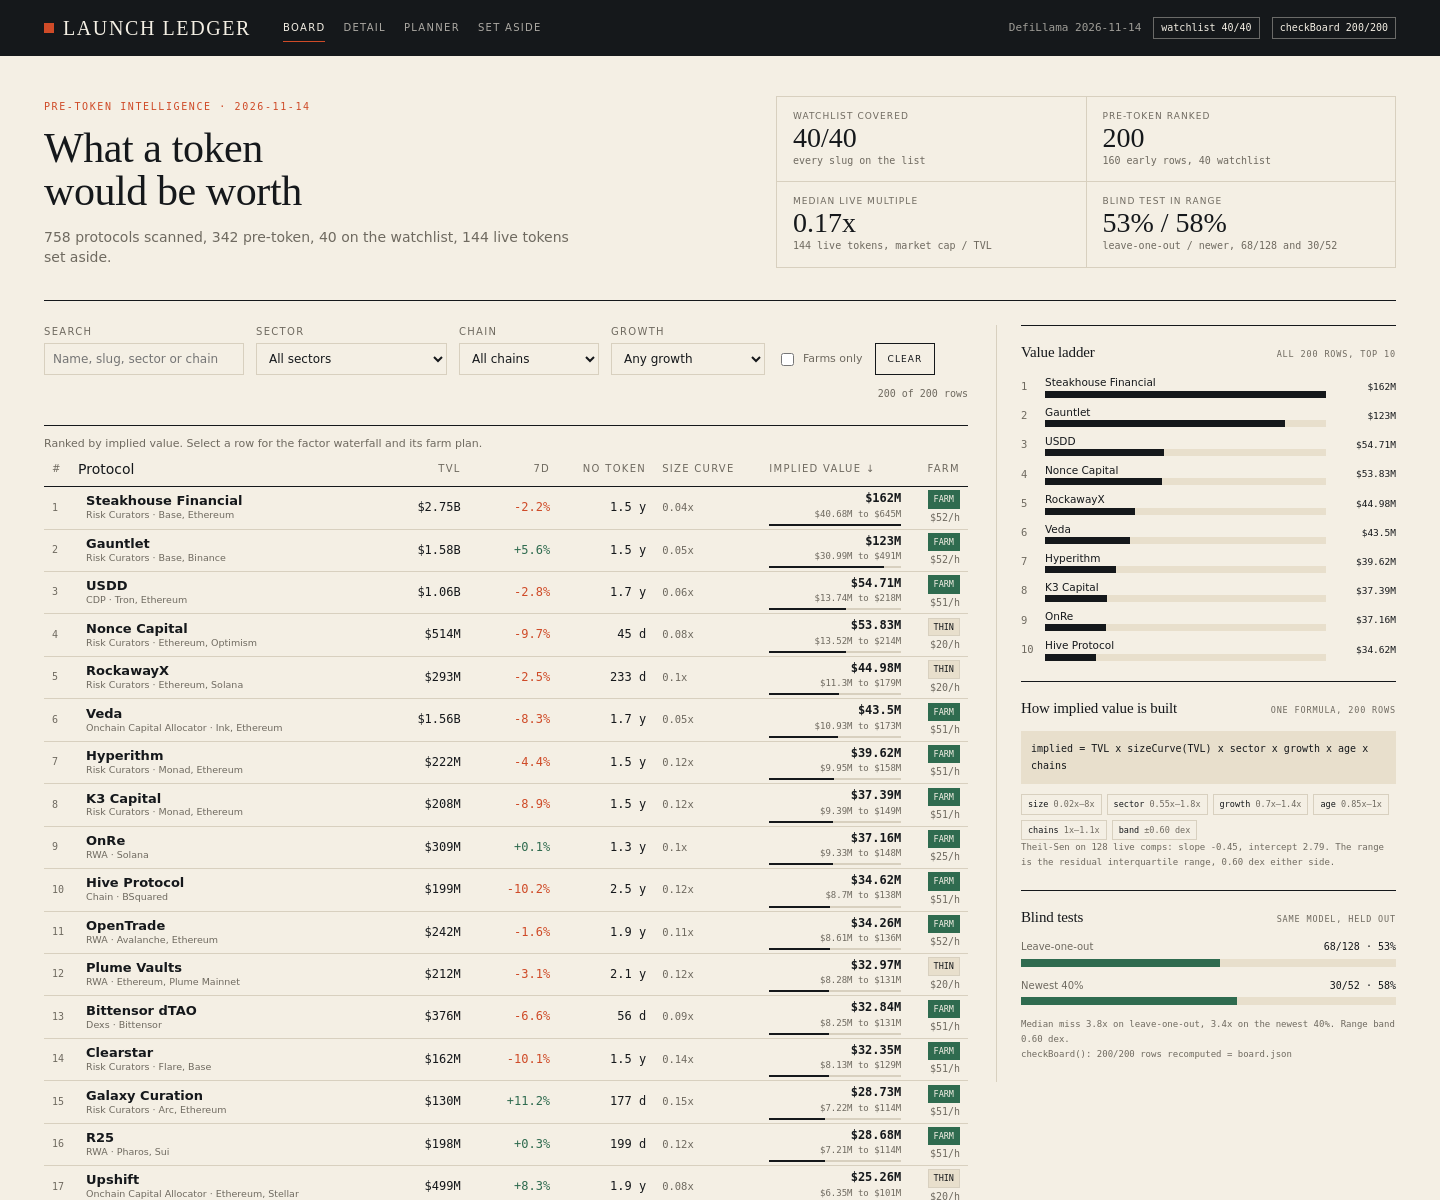
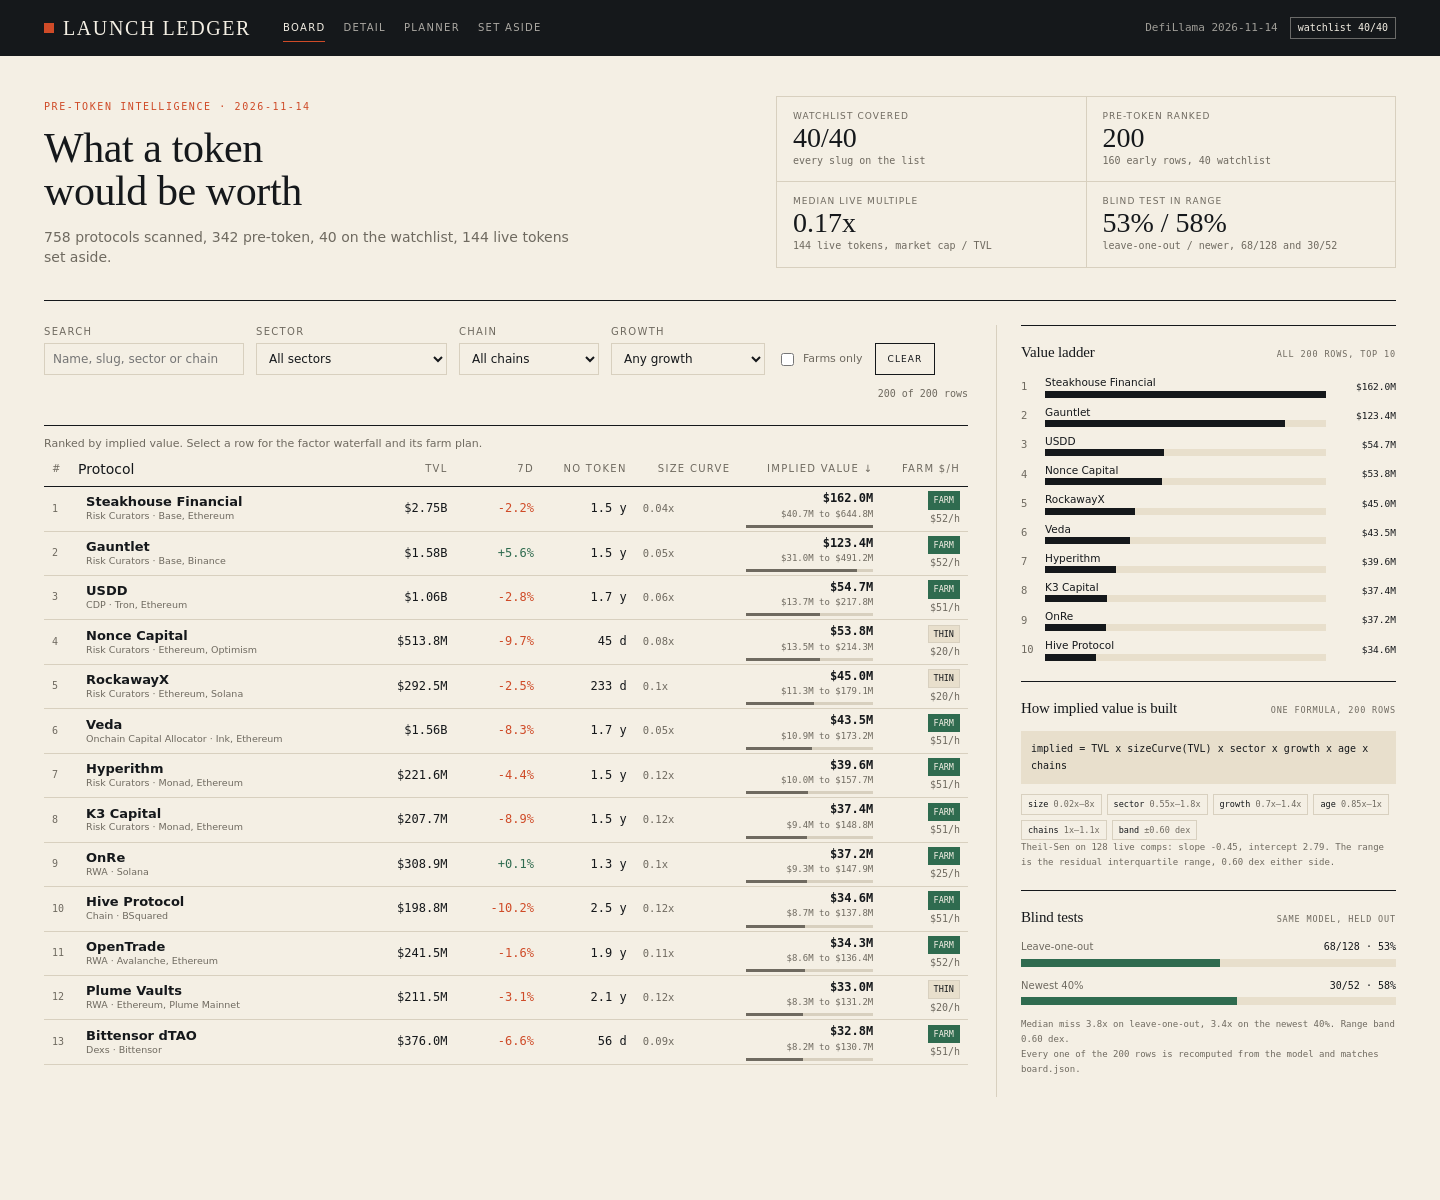
Board and detail polish: one money precision, right-aligned numeric headers, a fold that ends on a row boundary, product copy instead of self-test text

diff --git a/dashboard/app.js b/dashboard/app.js
@@ -15,7 +15,7 @@ function trim(n) { var r = Math.round(n * 100) / 100; return r % 1 === 0 ? Strin
 function usd(n) {
 if (n === null || n === undefined || !isFinite(n)) return 'n/a';
 var a = Math.abs(n);
-return a >= 1e9 ? '$' + trim(n / 1e9) + 'B' : a >= 1e6 ? '$' + (a >= 1e8 ? Math.round(n / 1e6) : trim(n / 1e6)) + 'M' : a >= 1e3 ? '$' + Math.round(n / 1e3) + 'K' : '$' + Math.round(n);
+return a >= 1e9 ? '$' + trim(n / 1e9) + 'B' : a >= 1e6 ? '$' + (Math.round(n / 1e5) / 10).toFixed(1) + 'M' : a >= 1e3 ? '$' + Math.round(n / 1e3) + 'K' : '$' + Math.round(n);
 }
 /** usd2(n) */
 function usd2(n) { return '$' + (Math.round(n * 100) / 100).toFixed(2); }
@@ -37,7 +37,7 @@ function topbar(active) {
 var nav = [['#/', 'Board', 'board'], ['#/p/' + D.rows[0].slug, 'Detail', 'detail'], ['#/planner', 'Planner', 'planner'], ['#/aside', 'Set aside', 'aside']];
 return '<header class=topbar><div class=topbar-in><a class=wordmark href="#/"><i></i>LAUNCH LEDGER</a><nav class=topnav>' +
 nav.map(function (n) { return '<a href="' + n[0] + '"' + (active === n[2] ? ' class=on' : '') + '>' + n[1] + '</a>'; }).join('') +
-'</nav><div class=topright><span class=stamp>DefiLlama ' + D.as_of + '</span><span class=pill>watchlist ' + D.checks.watchlist_covered + '/' + D.checks.watchlist_total + '</span><span class=pill>checkBoard ' + D.checks.rows_recomputed + '/' + D.checks.rows + '</span></div></div></header>';
+'</nav><div class=topright><span class=stamp>DefiLlama ' + D.as_of + '</span><span class=pill>watchlist ' + D.checks.watchlist_covered + '/' + D.checks.watchlist_total + '</span></div></div></header>';
 }
 
 /** kpi(label, value, note) */
@@ -99,7 +99,7 @@ return '<th' + (cls ? ' class=' + cls : '') + '><button type=button data-sort=' 
 }
 
 /** thead() */
-function thead() { return '<tr><th><button type=button data-sort=implied>#</button></th><th>Protocol</th>' + th('TVL', 'tvl', 'r') + th('7d', 'growth', 'r') + th('No token', 'age', 'r') + th('Size curve', 'size') + th('Implied value', 'implied') + th('Farm', 'perHour', 'r') + '</tr>'; }
+function thead() { return '<tr><th><button type=button data-sort=implied>#</button></th><th>Protocol</th>' + th('TVL', 'tvl', 'r') + th('7d', 'growth', 'r') + th('No token', 'age', 'r') + th('Size curve', 'size', 'r') + th('Implied value', 'implied', 'r') + th('Farm $/h', 'perHour', 'r') + '</tr>'; }
 
 /** rowHtml(r) */
 function rowHtml(r) {
@@ -154,7 +154,7 @@ function testPanel() {
 var b = D.backtest;
 function bar(label, t) { return '<div><div class=tl><span>' + label + '</span><b>' + t.inside + '/' + t.n + ' · ' + Math.round(t.share * 100) + '%</b></div><div class=tbar><i style="width:' + (t.share * 100).toFixed(1) + '%"></i></div></div>'; }
 return '<section class=panel><div class=ph><h2>Blind tests</h2><span>SAME MODEL, HELD OUT</span></div><div class=tests>' + bar('Leave-one-out', b.loo) + bar('Newest 40%', b.newer) +
-'<p class=tnote>Median miss ' + Math.pow(10, b.loo.medianError).toFixed(1) + 'x on leave-one-out, ' + Math.pow(10, b.newer.medianError).toFixed(1) + 'x on the newest 40%. Range band ' + b.band.toFixed(2) + ' dex.</p></div><div class=tnote>checkBoard(): ' + D.checks.rows_recomputed + '/' + D.checks.rows + ' rows recomputed = board.json</div></section>';
+'<p class=tnote>Median miss ' + Math.pow(10, b.loo.medianError).toFixed(1) + 'x on leave-one-out, ' + Math.pow(10, b.newer.medianError).toFixed(1) + 'x on the newest 40%. Range band ' + b.band.toFixed(2) + ' dex.</p></div><div class=tnote>Every one of the ' + D.checks.rows + ' rows is recomputed from the model and matches board.json.</div></section>';
 }
 
 /** boardHtml() */
@@ -170,6 +170,26 @@ var list = visibleRows();
 byId('count').textContent = list.length + ' of ' + D.board_size + ' rows';
 byId('thead').innerHTML = thead();
 byId('rows').innerHTML = rowsHtml(list);
+}
+
+/** fitBoard(): cap the table at a whole number of rows so the fold never slices one. */
+function fitBoard() {
+var tb = document.querySelector('.tablebox');
+if (!tb) return;
+if (window.innerWidth < 1180) { tb.style.maxHeight = ''; return; }
+var t = tb.getBoundingClientRect().top + window.scrollY;
+var side = document.querySelector('.side');
+var rail = side ? side.getBoundingClientRect().bottom + window.scrollY : 0;
+var limit = Math.min(window.innerHeight - 56 + window.scrollY, rail || Infinity);
+var rows = tb.querySelectorAll('tbody tr'), bottom = 0, head = tb.querySelector('thead');
+for (var i = 0; i < rows.length; i++) {
+var rb = rows[i].getBoundingClientRect().bottom + window.scrollY;
+if (rb > limit) break;
+bottom = rb;
+}
+if (!bottom && head) bottom = head.getBoundingClientRect().bottom + window.scrollY;
+var h = bottom ? bottom - t : 0;
+tb.style.maxHeight = h > 120 ? Math.ceil(h) + 'px' : '';
 }
 
 /** wireBoard() */
@@ -268,7 +288,7 @@ function detailHtml(slug) {
 var row = D.rows.filter(function (r) { return r.slug === slug; })[0];
 if (!row) return '<section class="shell detail"><a class=back href="#/">&#8592; Back to the board</a><p class=caption>No row has that slug. It may be outside the 200 ranked rows.</p></section>';
 var chains = row.chains.length ? row.chains.join(', ') : 'an unnamed chain';
-return '<section class="shell detail"><a class=back href="#/">&#8592; Back to the board</a><div class=dhead><div><p class=kicker>Protocol dossier</p><h1>' + esc(row.name) + '</h1><p class=dmeta>Rank ' + row.rank + ' of ' + D.board_size + ', ' + esc(row.category) + ', ' + esc(chains) + ', TVL ' + usd(row.tvl_usd) + ', no token on record for ' + ageWords(row.age_days) + '.</p><p class=dmeta>Farm plan: ' + usd(row.farm.ticket) + ' ticket, total cost ' + usd2(row.farm.cost) + ', total time ' + hoursText(row.farm.timeMin) + '.</p></div>' +
+return '<section class="shell detail"><a class=back href="#/">&#8592; Back to the board</a><div class=dhead><div><p class=kicker>Protocol dossier</p><h1>' + esc(row.name) + '</h1><p class=dmeta>Rank ' + row.rank + ' of ' + D.board_size + ', ' + esc(row.category) + ', ' + esc(chains) + ', TVL ' + usd(row.tvl_usd) + ', no token on record for ' + ageWords(row.age_days) + '.</p><p class=dmeta>Farm plan: ' + usd(row.farm.ticket) + ' ticket, expected ' + usd(row.farm.expected) + ', cost ' + usd2(row.farm.cost) + ', net ' + usd(row.farm.net) + ', ' + usd(row.farm.perHour) + '/h, total time ' + hoursText(row.farm.timeMin) + '.</p></div>' +
 '<div class=dval><span class=lab>Implied value</span><span class=big>' + usd(row.implied_value_usd) + '</span><span class=rng>' + usd(row.implied_low) + ' to ' + usd(row.implied_high) + '</span></div></div>' +
 '<div class=dgrid><div class=dcol><h2>Factor waterfall</h2><p class=caption>Each factor multiplies the one above; the last bar is the rounded implied value.</p>' + waterfall(row) +
 '<h2 style="margin-top:28px">Nearest comps</h2><p class=caption>The three live protocols closest in TVL. The shaded band is the implied range; the rule is this row.</p>' + compStrip(row) + compsTable(row) +
@@ -350,11 +370,13 @@ return { view: 'board' };
 function render() {
 var r = route();
 app.innerHTML = topbar(r.view) + (r.view === 'detail' ? detailHtml(r.slug) : r.view === 'planner' ? plannerHtml() : r.view === 'aside' ? asideHtml() : boardHtml());
-if (r.view === 'board') wireBoard();
+if (r.view === 'board') { wireBoard(); fitBoard(); }
 else if (r.view === 'planner') wirePlanner();
 app.setAttribute('aria-busy', 'false');
 if (r.view !== 'board') window.scrollTo(0, 0);
 }
+
+window.addEventListener('resize', function () { if (route().view === 'board') fitBoard(); });
 
 window.addEventListener('hashchange', render);
 render();

diff --git a/dashboard/app.css b/dashboard/app.css
@@ -64,12 +64,13 @@ td.rank{width:30px;font-family:var(--mono);font-size:10px;color:var(--muted)}
 .pname{font-size:13px;font-weight:650;line-height:1.15;white-space:nowrap}
 .psub{font-size:9.5px;line-height:1.25;color:var(--muted);white-space:nowrap;overflow:hidden;text-overflow:ellipsis;max-width:240px}
 td.r{text-align:right;font-family:var(--mono);white-space:nowrap}
+.dtable th.r{text-align:right}
 .size{font-family:var(--mono);font-size:10.5px;color:var(--muted);white-space:nowrap}
 .impv{font-family:var(--mono);font-size:12px;font-weight:650;white-space:nowrap}
 .imp{text-align:right}
 .impr{font-family:var(--mono);font-size:9px;color:var(--muted);white-space:nowrap;text-align:right}
-.impbar{height:2px;background:var(--rule);margin-top:3px}
-.impbar i{display:block;height:100%;background:var(--ink)}
+.impbar{height:3px;background:var(--rule);margin-top:4px}
+.impbar i{display:block;height:100%;background:var(--muted)}
 .farmcell{text-align:right;white-space:nowrap}
 .chip{display:inline-block;padding:2px 5px;font-family:var(--mono);font-size:8.5px;border:1px solid transparent}
 .chip.FARM{background:var(--forest);color:var(--bone)}
